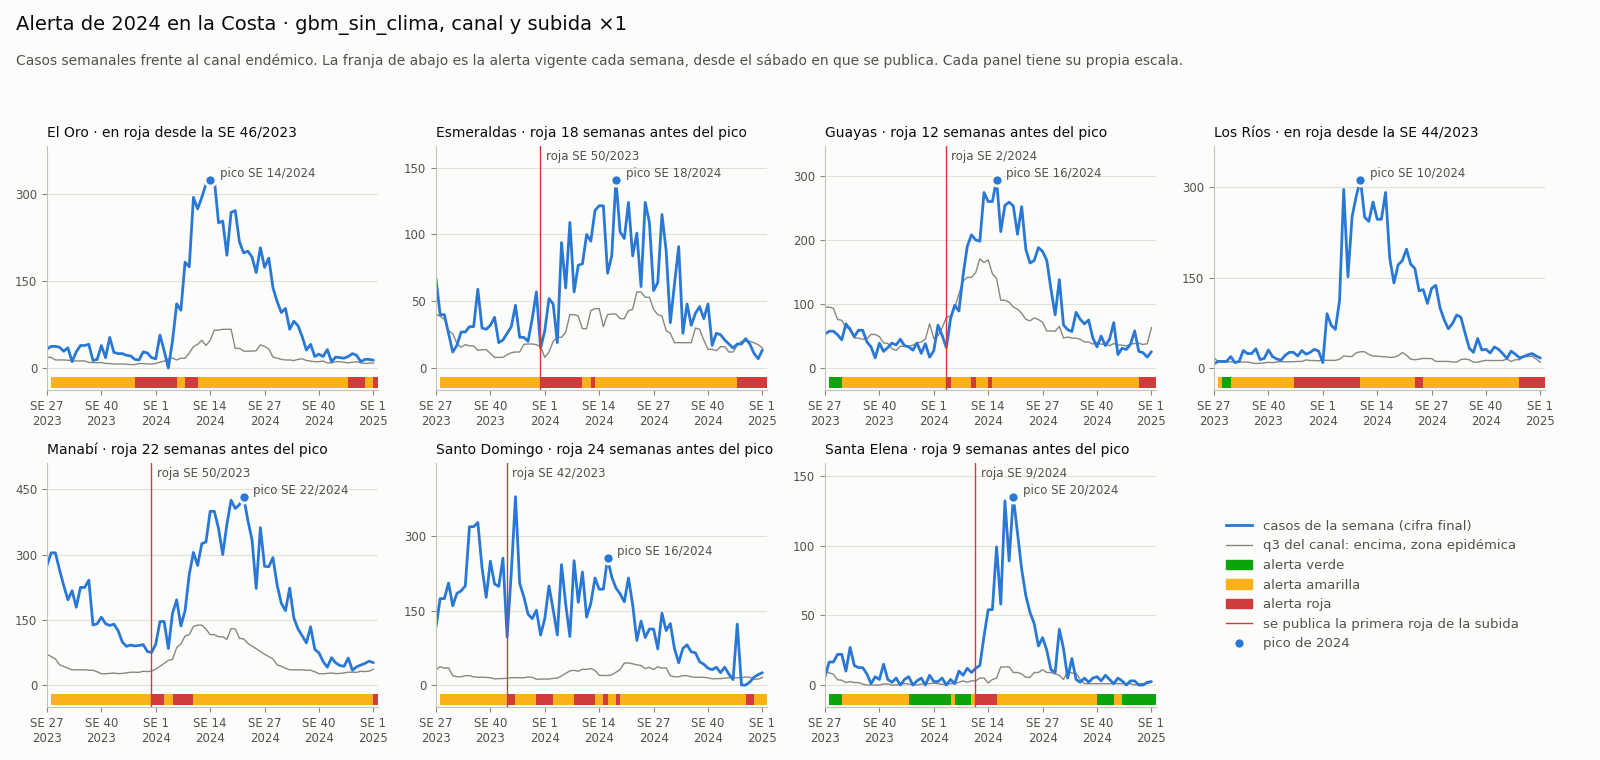
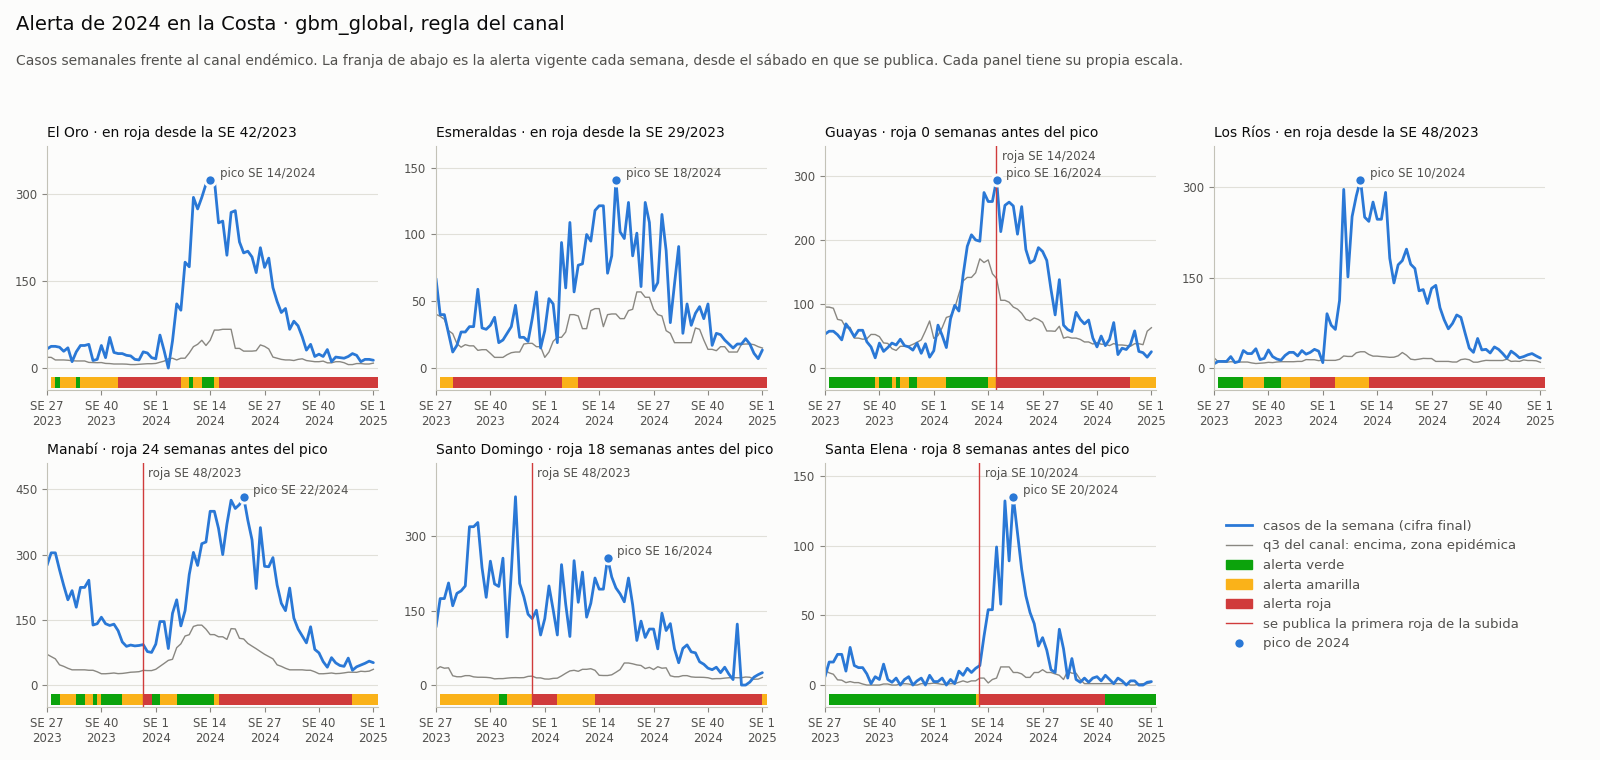
actualiza los resultados del README con el nuevo backtest
- titular, tablas y limitaciones con las fechas de publicación reales
- figura de la Costa del backtest nuevo
- alertas.ipynb guarda las métricas de inicio desde la SE 10 de 2024

diff --git a/README.md b/README.md
@@ -2,11 +2,11 @@
 
 [![CI](https://github.com/srodriguez252/vigia-dengue/actions/workflows/ci.yml/badge.svg)](https://github.com/srodriguez252/vigia-dengue/actions/workflows/ci.yml)
 
-**With data up to 2023, Vigía Dengue would have issued a red alert for Manabí 22 weeks before the 2024 peak.**
+**Since March 2024, when the upload date of each new bulletin is known to the day, Vigía Dengue's red alert came before 23 of 29 outbreak onsets, a median of 6 weeks ahead. A 4-week average under the same rule caught 17.**
 
 Every Saturday it forecasts confirmed dengue cases in each of Ecuador's 24 provinces one to four weeks ahead, issues a green, yellow or red alert with its reason, and estimates the hospital bed-days those cases would take. It runs end to end on Databricks Free Edition.
 
-> **Resumen en español.** Sistema de alerta temprana de dengue para Ecuador sobre Databricks Free Edition. Cada sábado pronostica los casos confirmados de cada provincia a 1–4 semanas, emite una alerta verde, amarilla o roja con su motivo y estima las camas-día que ocuparían. Usa datos públicos del MSP, el INEC, Open-Meteo (ERA5 de Copernicus) y NOAA. Con datos hasta 2023, habría alertado a Manabí 22 semanas antes del pico de 2024.
+> **Resumen en español.** Sistema de alerta temprana de dengue para Ecuador sobre Databricks Free Edition. Cada sábado pronostica los casos confirmados de cada provincia a 1–4 semanas, emite una alerta verde, amarilla o roja con su motivo y estima las camas-día que ocuparían. Usa datos públicos del MSP, el INEC, Open-Meteo (ERA5 de Copernicus) y NOAA. Desde marzo de 2024, cuando la fecha de subida de cada gaceta nueva se conoce al día, la alerta roja se adelantó a 23 de 29 inicios de brote, con 6 semanas de mediana; el promedio de 4 semanas, con la misma regla, a 17.
 
 ## The problem
 
@@ -104,35 +104,40 @@ flowchart LR
 
 ## Results
 
-Rolling-origin backtest: one forecast per epidemiological week since week 1 of 2022, retraining every 4 weeks, with only the data published by each issue date.
+Rolling-origin backtest: one forecast per epidemiological week since week 1 of 2022, retraining every 4 weeks, with only the bulletins that were online at each issue date.
 
-**Forecast error.** Mean absolute error in cases per province and week. Every forecast cuts the endemic channel's error by 40% to 54%. The naive forecast, the average of the last 4 weeks, has the lowest error at every horizon, and the champion is within 1.2 cases of it. The champion's edge is that it anticipates rises, as the alert rules below show.
+**What each issue knew.** Only 31% of the weekly issues since 2022 had the bulletin of their own week. None did in 2022 and 2023, when the upload month is the only trace and a bulletin counts from the last day of that month; 65% did in 2025 and 75% in 2026. Since week 10 of 2024, when the upload date of each new bulletin is known to the day, 55% had it and 84% had data at most one week old. An earlier version of this backtest took each bulletin's cut-off date as its publication date and put that share at 92%; the results below replace the ones it gave.
+
+**Forecast error.** Mean absolute error in cases per province and week. Every forecast cuts the endemic channel's error by 20% to 46%. The two baselines without a model have the lowest error at every horizon: 14.0 and 14.1 cases on average, against 17.9 for the champion. With the cut-off date as publication date the gap was about one case, so the model depends on fresh bulletins more than the averages do.
 
 | Model | 1 week | 2 weeks | 3 weeks | 4 weeks | Relative to the endemic channel |
 | --- | --- | --- | --- | --- | --- |
-| Last 4 weeks (naive) | 9.8 | 11.2 | 12.5 | 14.0 | 0.46 |
-| **Gradient boosting, no weather (champion)** | 11.0 | 12.0 | 13.3 | 14.3 | 0.49 |
-| Gradient boosting, with weather and El Niño | 11.3 | 12.9 | 14.0 | 14.2 | 0.51 |
-| Gradient boosting, one model per province | 14.2 | 15.0 | 15.8 | 16.7 | 0.60 |
-| Endemic channel, median | 25.6 | 25.6 | 25.7 | 25.8 | 1.00 |
+| Last known week | 11.9 | 13.4 | 14.7 | 16.1 | 0.54 |
+| Last 4 weeks (naive) | 11.9 | 13.3 | 14.8 | 16.3 | 0.54 |
+| **Gradient boosting with weather and El Niño (champion)** | 17.1 | 17.4 | 17.8 | 19.4 | 0.69 |
+| Gradient boosting, no weather | 17.6 | 18.2 | 19.1 | 20.2 | 0.72 |
+| Gradient boosting, one model per province | 19.9 | 20.3 | 21.1 | 21.4 | 0.80 |
+| Endemic channel, median | 25.8 | 25.9 | 26.0 | 26.1 | 1.00 |
 
-**Alert rules,** applied to the champion's forecasts. Every rule turns red when the 2–4 week forecast is above the channel's third quartile in two consecutive issues; the stricter ones also ask the 4-week forecast to reach a multiple of the last 4 weeks' average.
+**Alerts.** An alert turns red when the 2–4 week forecast is above the channel's third quartile in two consecutive issues. It is measured against outbreak onsets: the first of 4 consecutive weeks in the epidemic zone after 8 calm weeks. A warning is in time when a red issue is published up to 8 weeks before the onset, and late when it comes in the 4 weeks after. A run of red issues is a false alarm when it starts in a calm week and no outbreak begins from 4 weeks before to 8 weeks after its publication.
 
-| Red alert rule | Sensitivity | False alarms per province-year | Coastal provinces warned in 2024 | Median coastal lead time (weeks) | Manabí |
+Issues since week 10 of 2024, with 29 onsets in 17 provinces between May 2024 and September 2026:
+
+| Forecast behind the alert | Warned in time | Warned late | Not warned | Median lead (weeks) | False alarms per province-year |
 | --- | --- | --- | --- | --- | --- |
-| Above the third quartile twice in a row (the plan's rule) | 0.89 | 0.33 | 2 of 7 | 0 | Red since week 22 of 2023 |
-| **Plus a 4-week forecast at least equal to the average (chosen)** | 0.33 | 0.20 | 5 of 7 | 12 | Warned 22 weeks ahead |
-| Plus a 4-week forecast at least 1.25 times the average | 0.17 | 0.17 | 5 of 7 | 8 | Warned 22 weeks ahead |
-| Plus a 4-week forecast at least 1.5 times the average | 0.08 | 0.13 | 4 of 7 | 11 | Not warned |
-| The plan's rule on the naive forecast | 0.86 | 0.26 | 2 of 7 | 0 | Red since week 20 of 2023 |
+| **Champion** | 23 | 5 | 1 | 6 | 0.48 |
+| Last 4 weeks (naive) | 17 | 5 | 7 | 7 | 0.31 |
+| Last known week | 14 | 11 | 4 | 7 | 0.33 |
 
-Sensitivity is the share of epidemic weeks that had a red alert issued 2 to 4 weeks earlier. A false alarm is a run of red issues that announced no epidemic week. Lead time counts the full weeks between the publication of the first red alert of the 2024 rise and the start of the peak week; a coastal province that was not warned, or whose alert was already red from the previous season, counts as 0.
+The champion misses 1 onset where the naive forecast misses 7, and raises about 55% more false alarms. Over the whole backtest, with 56 onsets since 2022, the champion and the naive forecast each warned 25 in time, with 0.39 and 0.34 false alarms per province and year: the champion's advantage shows only where the upload dates are exact. Stricter rules, which also ask the 4-week forecast to reach 1, 1.25 or 1.5 times the last 4 weeks' average, warned 20, 11 and 9 of the 29 onsets.
 
-With the chosen rule, Santo Domingo de los Tsáchilas was warned 24 weeks before its peak, Manabí 22, Esmeraldas 18, Guayas 12 and Santa Elena 9. El Oro and Los Ríos were already red from the previous season.
+**The 2024 epidemic on the coast.** The rise the project set out to catch would have been caught late, and the reason is in the bulletins. No bulletin sits in the upload folder of January 2024: those of the last two weeks of 2023 and the first eight of 2024 went up in February, two of them in November. From December to late February each issue worked with data 2 to 9 weeks old, and the provinces that were red in December fell back to yellow or green. Red came back with the bulletins: on 16 March in Santa Elena, 8 weeks before its peak, and in Los Ríos, after its peak; on 23 March in Santo Domingo, 3 weeks before; and on 13 April in Manabí, 6 weeks before, in Guayas, the day before its peak week began, and in El Oro, at its peak. Esmeraldas stayed red except for four issues in January and February.
 
 ![Weekly bulletin dashboard](docs/img/dashboard.png)
 
-![2024 backtest: week each coastal province would have turned red](docs/img/alerta_2024_costa.png)
+![The 2024 epidemic on the coast: weekly cases, epidemic threshold and the alert in force each week](docs/img/alerta_2024_costa.png)
+
+The panel titles count the weeks from the first red issue of the rise to the peak, even when that red did not last: Manabí's 24 weeks are two red issues in December 2023.
 
 ## Design decisions
 
@@ -141,18 +146,19 @@ With the chosen rule, Santo Domingo de los Tsáchilas was warned 24 weeks before
 - **Rates back to cases.** From mid-2025 to mid-2026 the bulletins publish rates only. They are converted with the population the MSP itself used, deduced from its earlier bulletins, and every row says whether its cases come from the PDF or are estimated.
 - **A bulletin that carries the previous year.** The total row of the bulletin for week 1 of 2025 adds all the cases of 2024 to the 547 of its own week. Weekly cases are the growth of each year's highest cumulative count, so that one bulletin gave Manabí 10,473 cases in the first week of 2025, about its whole 2024, and zero in the other 52 weeks. A bulletin from the first 4 weeks of a year is dropped when its national cumulative count reaches half of the previous year's highest count known at its cut-off date; its week is filled like any other gap, and a test reproduces the case.
 - **The endemic channel as the yardstick.** For each province, year and week: the quartiles of up to 7 previous non-epidemic years ([Bortman, 1999](https://scielosp.org/pdf/rpsp/1999.v5n1/1-8/es)). It is both the baseline to beat and the threshold of the alert.
-- **The model.** `HistGradientBoostingRegressor` with Poisson loss, one per horizon, shared by all provinces, with the province as a categorical feature. The backtest compared it with one model per province and with a version that adds rainfall, temperature and humidity anomalies and the lagged Niño 1+2 index. The champion is the global model with the lower mean error, the one without weather: it uses lagged cases and their growth, incidence per 100,000, the endemic channel, data-quality flags, season and population. The naive forecast and the endemic channel are baselines only, because neither can announce an epidemic rise.
-- **The alert rule.** Red when, in two consecutive weekly issues, the 2–4 week forecast is above the channel's third quartile (and above 5 cases) and the 4-week forecast is at least the average of the last 4 weeks. Yellow when the forecast is above the channel's median. The backtest chose the rising-forecast condition: the most coastal lead time with at most one false alarm per province and year.
+- **The model.** `HistGradientBoostingRegressor` with Poisson loss, one per horizon, shared by all provinces, with the province as a categorical feature. It uses lagged cases and their growth, incidence per 100,000, the endemic channel, data-quality flags, season, population, rainfall, temperature and humidity anomalies and the lagged Niño 1+2 index. The backtest compared it with the same model without weather and with one model per province; the champion is the global model with the lower mean error. Three baselines without a model go through the same backtest and the same alert rules: the endemic channel, the average of the last 4 weeks and the last known week.
+- **The alert rule.** Red when, in two consecutive weekly issues, the 2–4 week forecast is above the channel's third quartile (and above 5 cases). Yellow when the forecast is above the channel's median. Asking also for a rising 4-week forecast warned fewer outbreak onsets and no earlier on the coast in 2024, so the plain rule stays.
 - **Bed-days.** Forecast cases × hospitalizations per case × mean length of stay, from INEC discharges and MSP cases of 2017–2024. Provinces with fewer than 30 hospitalizations use national rates.
 - **Append-only weekly issues.** Each run forecasts only the issues not yet in `gold.pronosticos`, so a failed Saturday is made up the next week and past issues are never rewritten. The 80% interval comes from the backtest errors of the champion.
 
 ## Limitations
 
-- **The model does not beat the naive forecast on error.** The average of the last 4 weeks misses by 9.8 cases a week ahead, against 11.0 for the champion, and stays ahead at every horizon. But it is flat, so it can never announce a rise: its 4-week forecast is the average itself, and the rising-forecast condition either always holds or never does. With the plan's rule it warned 2 of 7 coastal provinces of the 2024 rise, with a median lead time of 0 weeks; the champion with the chosen rule warned 5, with 12.
-- **Weather did not improve the forecast.** With weather and El Niño the error moved by less than one case per province and week: slightly higher at 1 to 3 weeks and slightly lower at 4 (14.2 against 14.3). The champion therefore uses case history and the endemic channel only. The rainfall bias below and a history that starts in 2017 may explain part of it.
+- **The model does not beat the baselines on error.** The last known week and the 4-week average miss by 14.0 and 14.1 cases on average and the champion by 17.9, and it trails at every horizon. What it adds is in the alerts: since March 2024 it warned 23 of 29 outbreak onsets in time against 17, at the price of 0.48 false alarms per province and year against 0.31.
+- **It learned from stale history.** Under the dates the backtest uses, no issue of 2022 or 2023 had the bulletin of its own week, and the lag features are tied to fixed weeks, so they are empty when a bulletin is late. That is the likely reason the model forecasts too low when cases are high: Manabí stayed green through March 2024 with 250 to 330 cases a week.
+- **Weather adds little.** With rainfall, temperature, humidity and El Niño the error is 17.9 cases against 18.8 without, about 5% less. The rainfall bias below and a history that starts in 2017 may explain part of it.
 - **Rainfall is biased in the Andes.** ERA5 cells of about 28 km mix valleys and slopes: Quito adds up to 3,518 mm in 2025 against a normal of about 1,100 mm. That is why rainfall enters the model as an anomaly against its own climatology.
-- **The chosen rule trades sensitivity for timing.** It catches 33% of epidemic weeks 2 to 4 weeks ahead, against 89% for the plan's rule, because it only turns red on a rising forecast. That condition is what lets it warn 5 of 7 coastal provinces of the 2024 rise instead of 2.
-- **Saturated alerts.** Manabí's cases were above its epidemic threshold every week from week 21 of 2023 to the end of 2024 (84 weeks), and with the plan's rule its alert stayed red from week 22 of 2023. A province already in red cannot be warned again, so lead time is measured from the 2024 rise.
+- **The epidemic zone is the usual state.** 45% of the province-weeks since 2022 are above the channel's third quartile, 64% on the coast, and Manabí stayed above it for 123 weeks in a row, from week 21 of 2023 to week 39 of 2025. A red alert says cases are above the province's history, not that an outbreak is starting, and a province already in red cannot be warned again. That is why alerts are measured against outbreak onsets, the passage from calm to epidemic.
+- **The onset measure is new and small.** Its thresholds were set before looking at its results but have not been validated on other data, and the 29 onsets since March 2024 are 2 of 2024, 9 of 2025 and 18 of 2026.
 - **The bulletins have gaps.** From 2017 to 2026, 21 weeks were never posted, 3 links are broken and 4 PDFs cannot be read, and figures are revised in later bulletins. The growth across a gap is spread evenly over its weeks.
 - **Publication dates are exact only since March 2024.** Bulletins uploaded since then keep their original server date, and it always falls in the month of their URL folder. Every earlier file shows the same bulk re-upload of 2 March 2024, so the folder is the only trace: those bulletins count from the last day of their upload month, up to a month after the real upload, and the ones of 2017–2019 with no usable trace still count from their cut-off date. `publicacion_origen` marks each case, and `publicacion_desde` keeps the earliest possible date, to rerun the backtest at the other end of the range.
 - **Hospital data arrive late.** INEC discharges are published more than a year later, so they calibrate bed-days but do not feed the weekly forecast. Bed-days are an order of magnitude, not a capacity plan.
